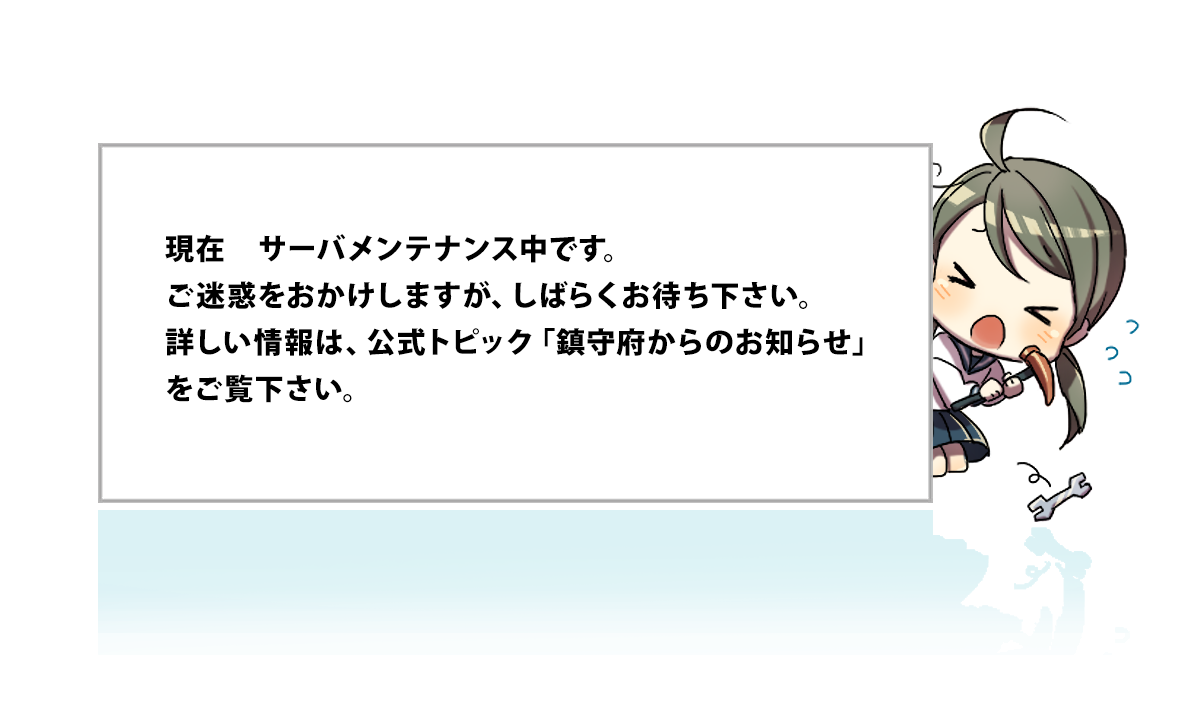
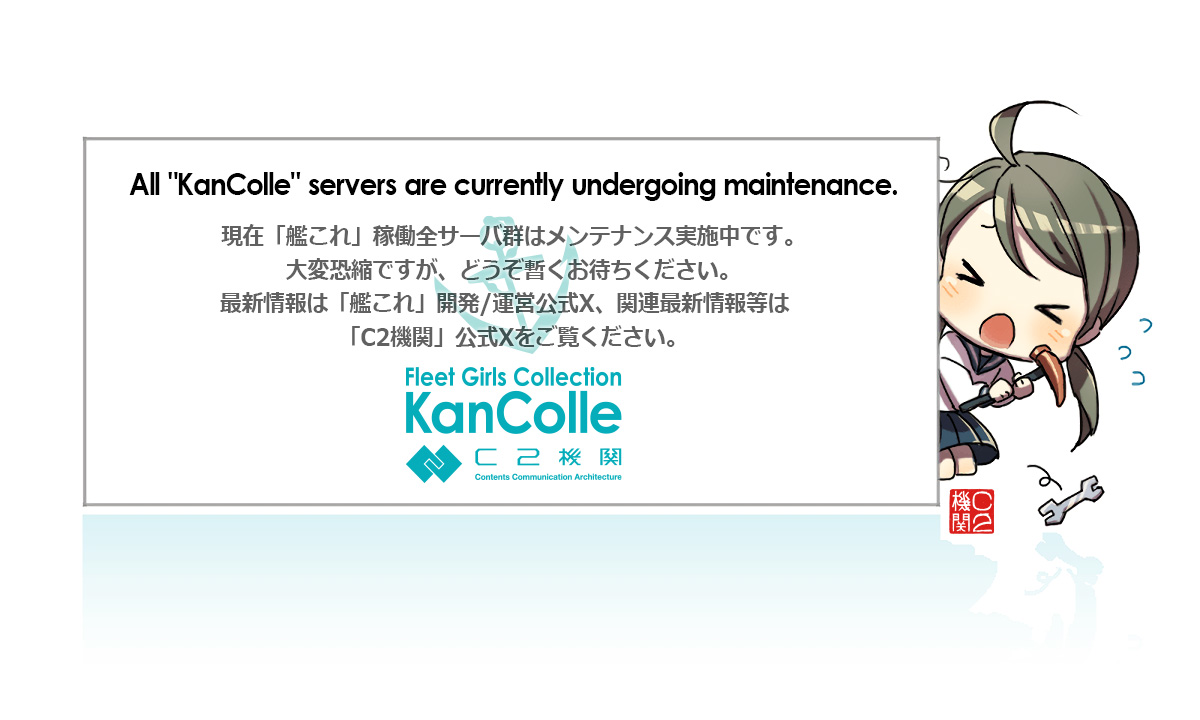
update maintenance image

Changed region(s): [[0.0617, 0.1222, 0.9558, 0.825], [0.1233, 0.5194, 0.3083, 0.5806]]

diff --git a/app/src/main/assets/maintenance.html b/app/src/main/assets/maintenance.html
@@ -8,7 +8,7 @@
 </head>
 
 <body style="margin: 0px;">
-    <img src="maintenance.png.pagespeed.ce.In2HQP2RJG.png"/>
+    <img src="maintenance.png"/>
 </body>
 
 </html>
